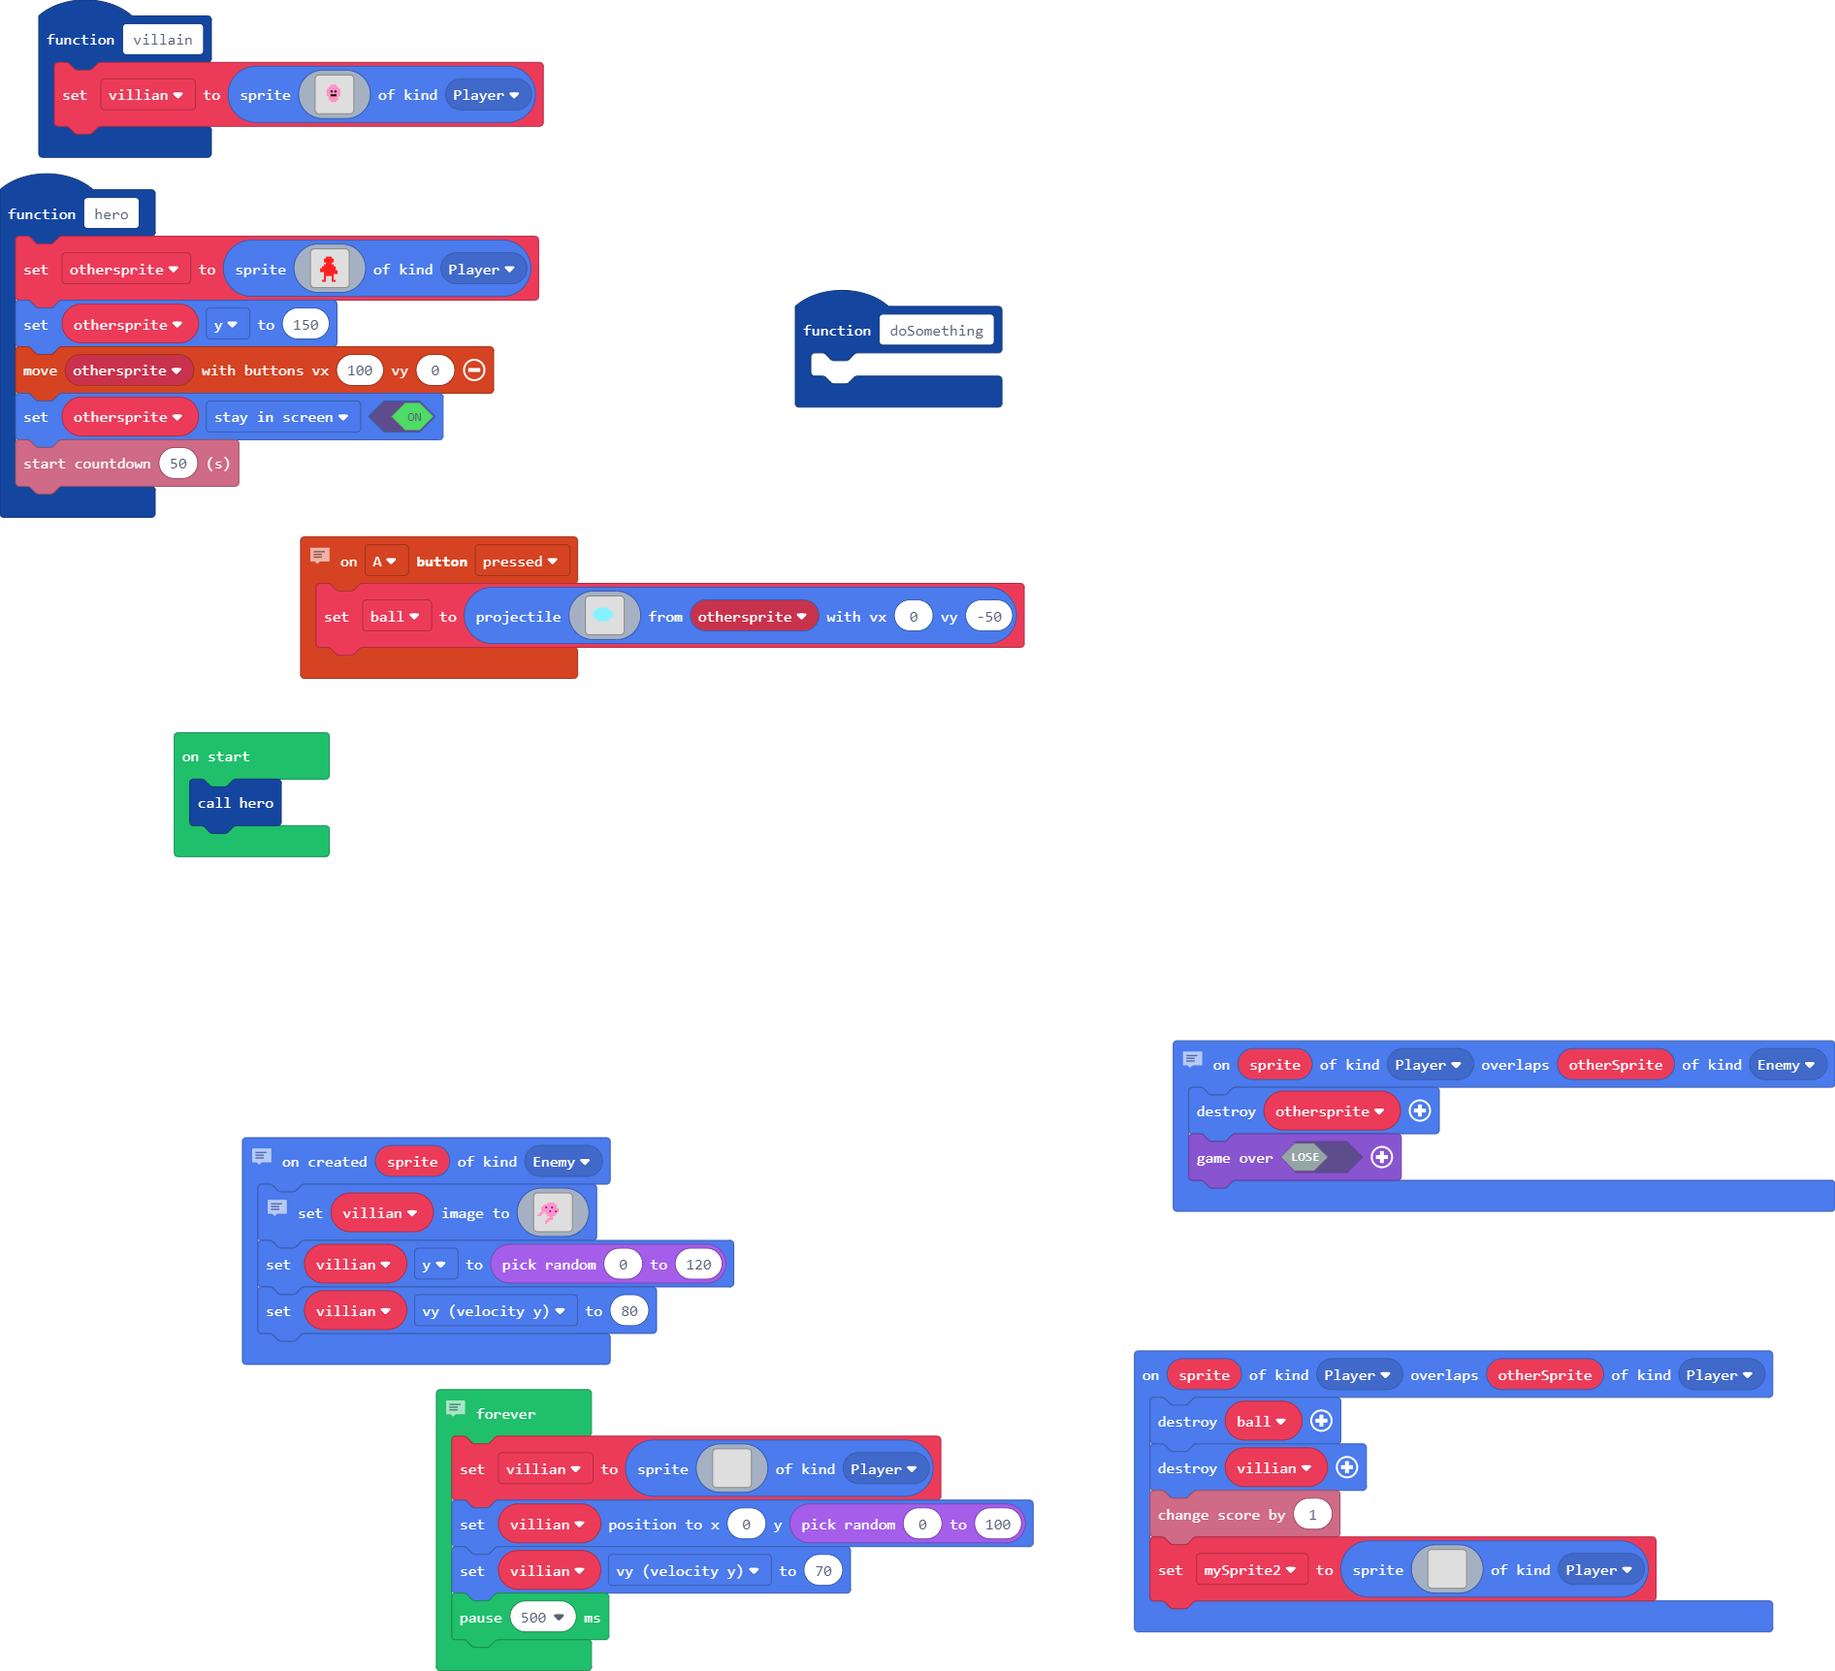
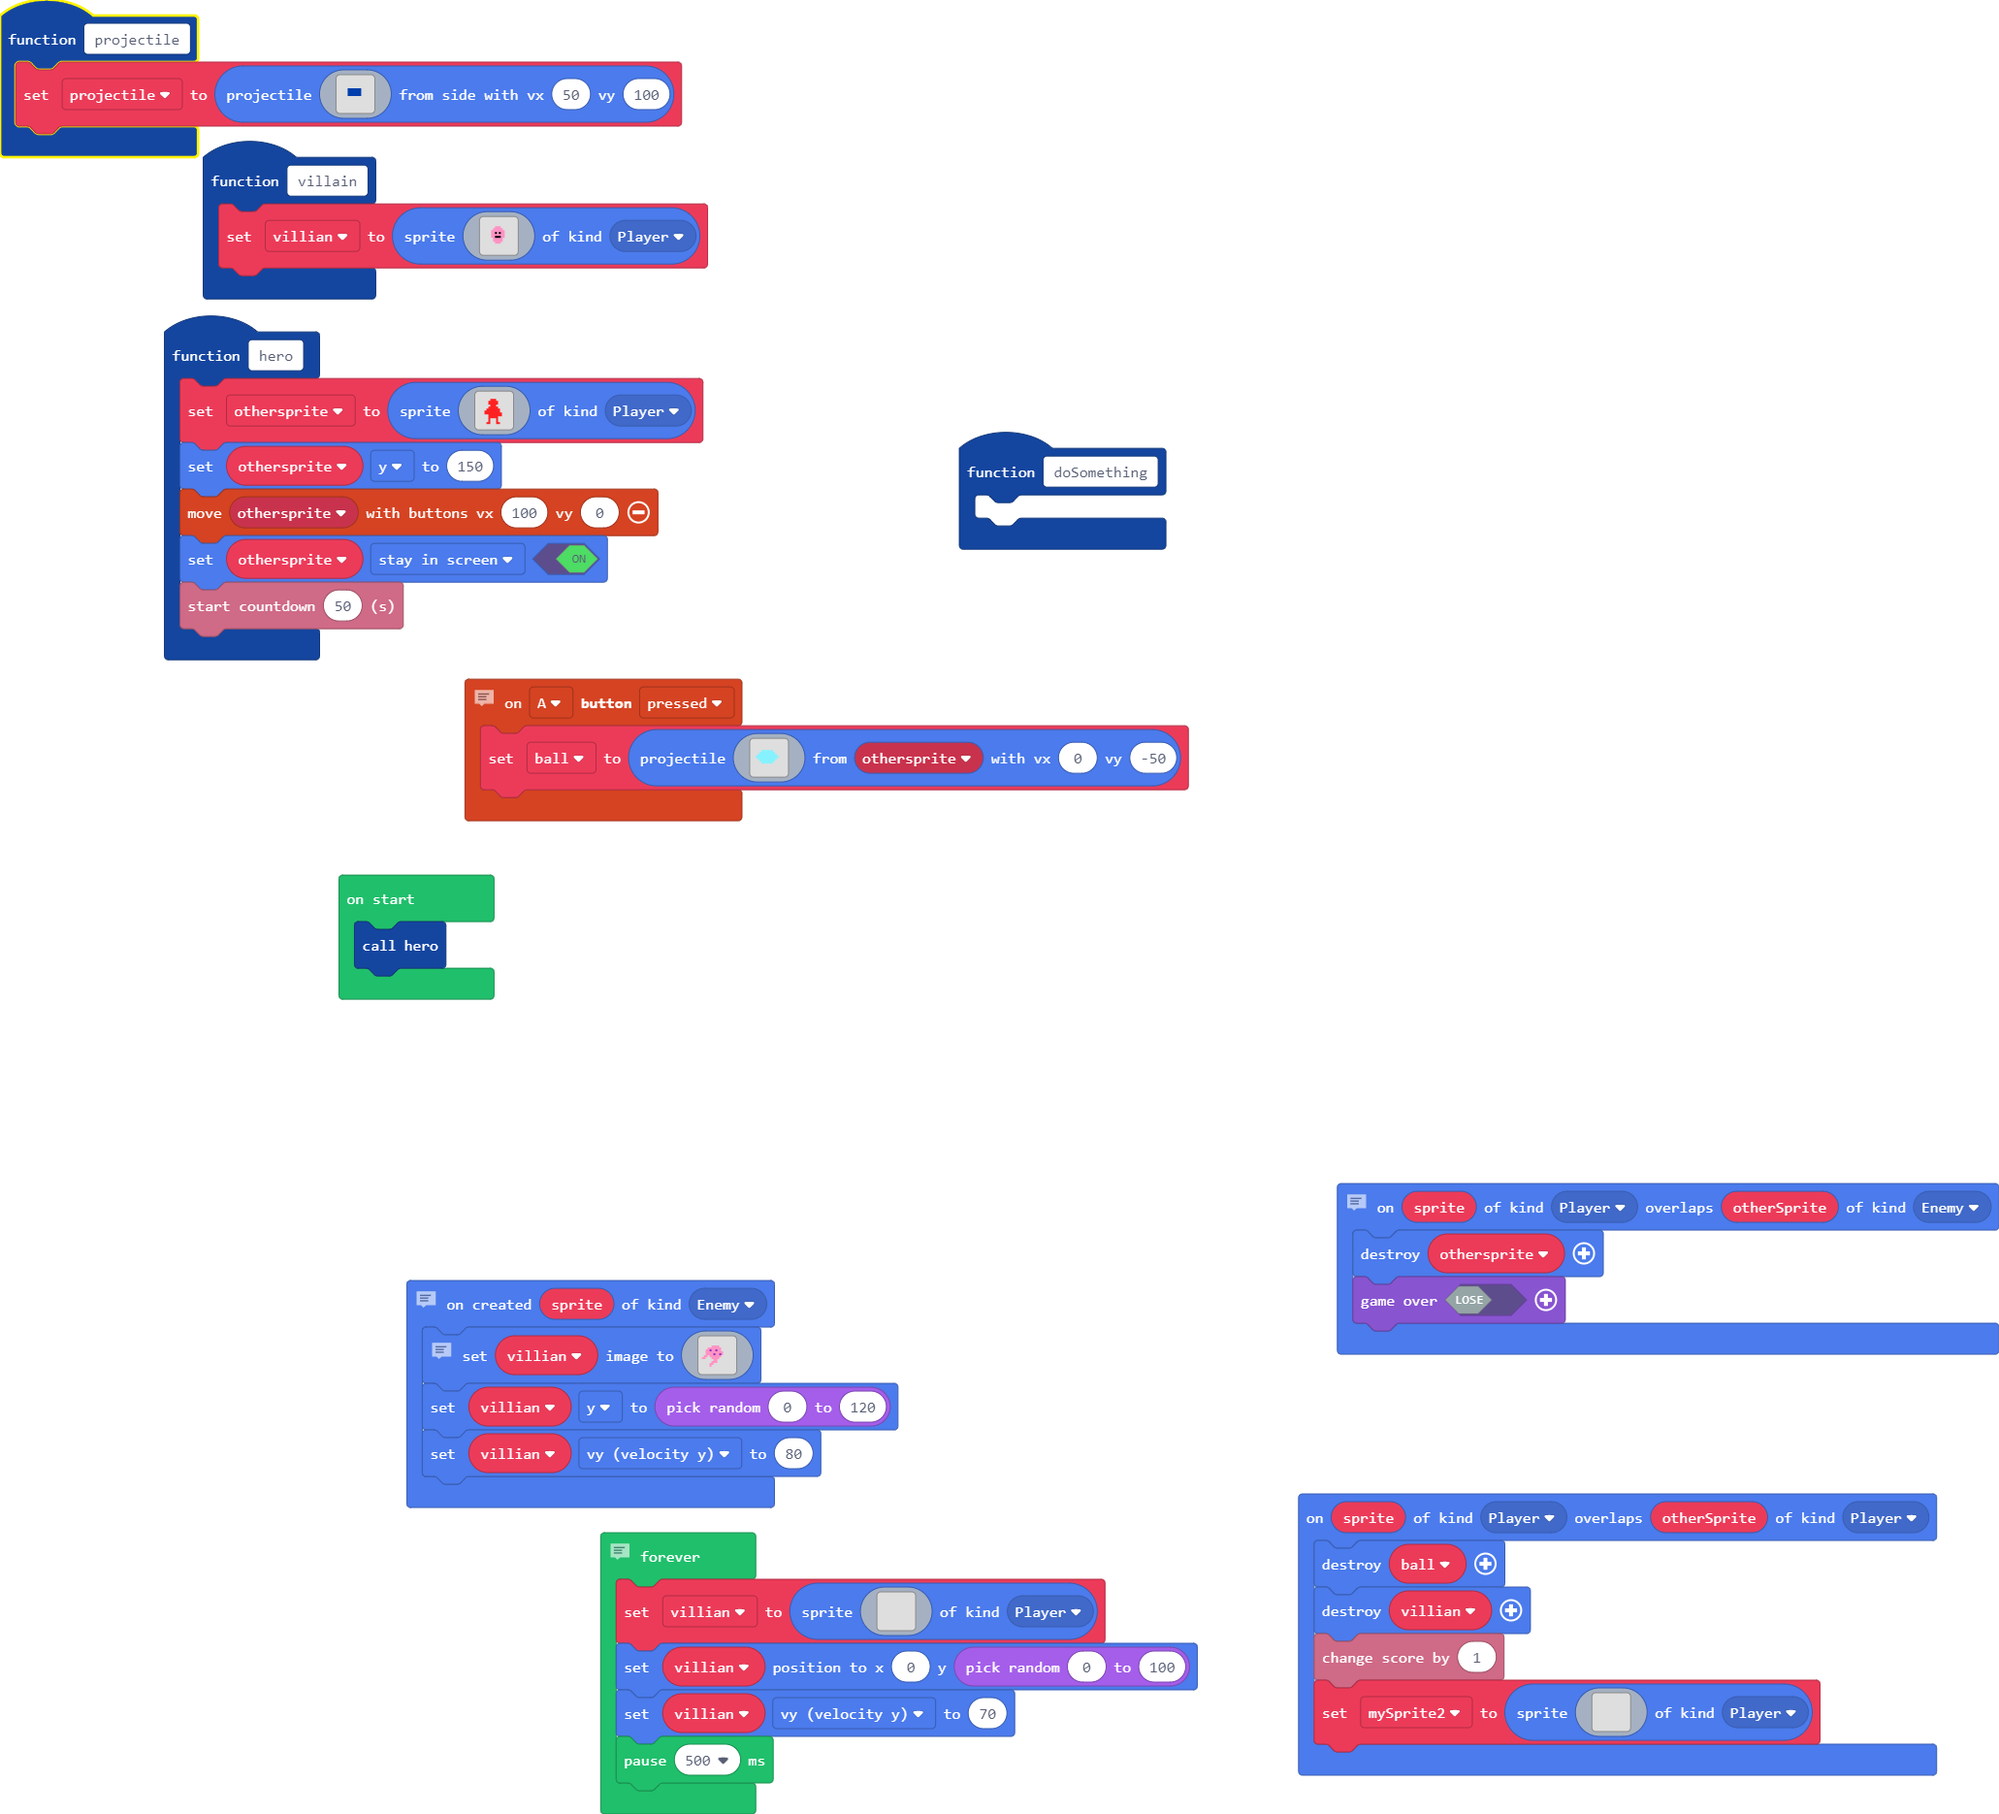
Update main.blocks, main.ts

diff --git a/main.ts b/main.ts
@@ -18,6 +18,26 @@ function villain () {
 . . . . . . . . . . . . . . . . 
 `, SpriteKind.Player)
 }
+function projectile () {
+    projectile2 = sprites.createProjectileFromSide(img`
+. . . . . . . . . . . . . . . . 
+. . . . . . . . . . . . . . . . 
+. . . . . . . . . . . . . . . . 
+. . . . . . . . . . . . . . . . 
+. . . . . . . . . . . . . . . . 
+. . . . 8 8 8 8 8 8 8 . . . . . 
+. . . . 8 8 8 8 8 8 8 . . . . . 
+. . . . 8 8 8 8 8 8 8 . . . . . 
+. . . . 8 8 8 8 8 8 8 . . . . . 
+. . . . . . . . . . . . . . . . 
+. . . . . . . . . . . . . . . . 
+. . . . . . . . . . . . . . . . 
+. . . . . . . . . . . . . . . . 
+. . . . . . . . . . . . . . . . 
+. . . . . . . . . . . . . . . . 
+. . . . . . . . . . . . . . . . 
+`, 50, 100)
+}
 function hero () {
     othersprite = sprites.create(img`
 . . . . . . . . . . . . . . . . 
@@ -122,6 +142,7 @@ sprites.onCreated(SpriteKind.Enemy, function (sprite) {
 let mySprite2: Sprite = null
 let ball: Sprite = null
 let othersprite: Sprite = null
+let projectile2: Sprite = null
 let villian: Sprite = null
 hero()
 // set villain velocity forever
